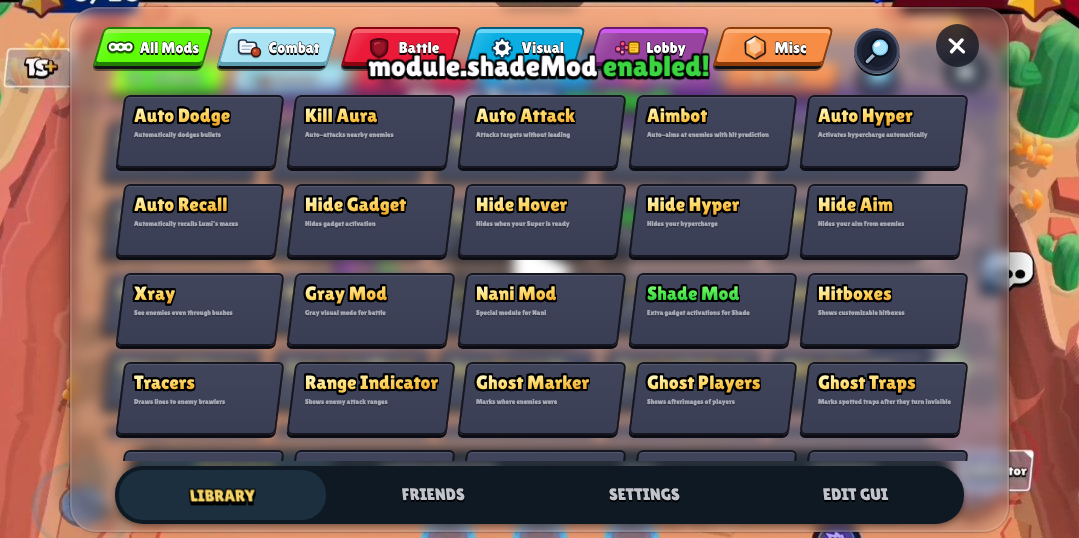
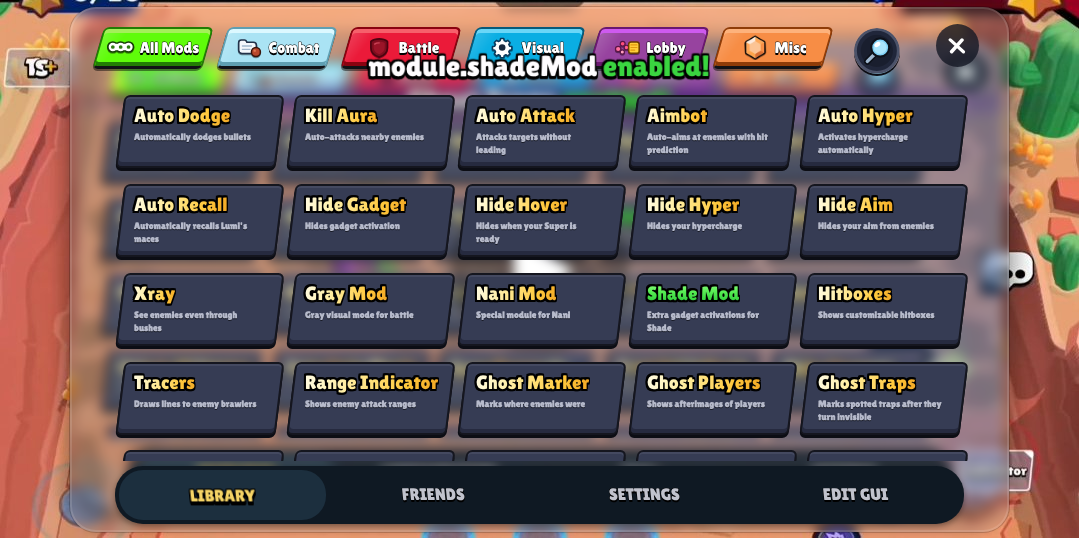
Match Tale card colors and add the game's button click sound
Navy card body with 3D bottom edge, left-to-right gold title gradient,
larger descriptions, and ButtonClick2 (menu_click_08.ogg) on menu buttons.

Claude-Session: https://claude.ai/code/session_01JmN1VkfGL2te8USe1pmgwt

diff --git a/tools/tale_menu/tale_patch.py b/tools/tale_menu/tale_patch.py
@@ -34,12 +34,12 @@ TALE_CSS = r"""
 :host .panel:has(.panel-tiles){background:none!important;border:0!important;box-shadow:none!important}
 :host .panel:has(.panel-tiles)>.panel-head{display:none!important}
 :host .panel-tiles{grid-template-columns:repeat(5,minmax(0,1fr))!important;gap:max(8px,1.8vh) max(8px,1.4vw)!important;padding:2px 6px!important}
-:host .tile,:host .tile.is-on{min-height:max(64px,13.5vh)!important;border:2px solid #15161f!important;border-radius:6px!important;background:linear-gradient(180deg,#41455c,#3a3e55)!important;box-shadow:0 3px 0 #0c0d14,inset 0 1px rgb(255 255 255 / .1)!important;transform:skew(-7deg)!important}
+:host .tile,:host .tile.is-on{min-height:max(64px,13.5vh)!important;border:2px solid #15161f!important;border-radius:6px!important;background:#363c54!important;box-shadow:0 3px 0 #0c0d14,inset 0 -4px #262a3f,inset 0 2px rgb(255 255 255 / .07)!important;transform:skew(-7deg)!important}
 :host .tile:before{display:none!important}
-:host .tile.is-on{box-shadow:0 3px 0 #0c0d14,inset 0 1px rgb(255 255 255 / .1)!important}:host .tile.is-on .tile-name{background:linear-gradient(180deg,#8dff7e 0,#55ec52 40%,#36d23f 75%,#27b532 100%)!important;-webkit-background-clip:text!important;background-clip:text!important}:host .jz-floater{position:absolute;left:50%;top:7.6vh;z-index:80;pointer-events:none;white-space:nowrap;font:400 max(20px,5.4vh)/1.1 var(--font-brand);color:#fefcfe;filter:drop-shadow(1.5px 0 0 #000) drop-shadow(-1.5px 0 0 #000) drop-shadow(0 -1.5px 0 #000) drop-shadow(0 3px 0 #000);animation:jzf 1.7s ease-out forwards!important}:host .jz-floater b{font-weight:400;color:#3ad540}:host .jz-floater b.off{color:#ff3b3b}@keyframes jzf{0%{opacity:0;transform:translate(-50%,8px) scale(.55)}10%{opacity:1;transform:translate(-50%,0) scale(1.1)}18%{transform:translate(-50%,0) scale(1)}78%{opacity:1;transform:translate(-50%,0)}100%{opacity:0;transform:translate(-50%,-10px)}}
+:host .tile.is-on{box-shadow:0 3px 0 #0c0d14,inset 0 -4px #262a3f,inset 0 2px rgb(255 255 255 / .07)!important}:host .tile.is-on .tile-name{background:linear-gradient(180deg,#8dff7e 0,#55ec52 40%,#36d23f 75%,#27b532 100%)!important;-webkit-background-clip:text!important;background-clip:text!important}:host .jz-floater{position:absolute;left:50%;top:7.6vh;z-index:80;pointer-events:none;white-space:nowrap;font:400 max(20px,5.4vh)/1.1 var(--font-brand);color:#fefcfe;filter:drop-shadow(1.5px 0 0 #000) drop-shadow(-1.5px 0 0 #000) drop-shadow(0 -1.5px 0 #000) drop-shadow(0 3px 0 #000);animation:jzf 1.7s ease-out forwards!important}:host .jz-floater b{font-weight:400;color:#3ad540}:host .jz-floater b.off{color:#ff3b3b}@keyframes jzf{0%{opacity:0;transform:translate(-50%,8px) scale(.55)}10%{opacity:1;transform:translate(-50%,0) scale(1.1)}18%{transform:translate(-50%,0) scale(1)}78%{opacity:1;transform:translate(-50%,0)}100%{opacity:0;transform:translate(-50%,-10px)}}
 :host .tile-toggle{gap:3px!important;padding:8px 10px 8px 12px!important;justify-content:flex-start!important;transform:skew(7deg)}
-:host .tile-name{font:400 max(14px,3.6vh)/1.1 var(--font-brand)!important;color:transparent!important;background:linear-gradient(172deg,#fffbe0 0,#fff0a8 22%,#ffd968 48%,#f6b93a 72%,#e0901f 100%);-webkit-background-clip:text;background-clip:text;-webkit-text-stroke:0!important;text-shadow:none!important;filter:drop-shadow(1.2px 0 0 #000) drop-shadow(-1.2px 0 0 #000) drop-shadow(0 -1.2px 0 #000) drop-shadow(0 2.4px 0 #000);white-space:nowrap;overflow:hidden;max-width:100%;padding-bottom:2px}
-:host .tile-desc{color:#a3a6b3;font:600 max(7px,1.3vh)/1.3 var(--font);text-shadow:0 1px 0 #0008;overflow:hidden;display:-webkit-box;-webkit-line-clamp:3;-webkit-box-orient:vertical;max-width:100%}
+:host .tile-name{font:400 max(14px,3.6vh)/1.1 var(--font-brand)!important;color:transparent!important;background:linear-gradient(100deg,#fffbe2 0,#fff1b0 25%,#ffe07a 50%,#ffc83c 75%,#f2a724 100%);-webkit-background-clip:text;background-clip:text;-webkit-text-stroke:0!important;text-shadow:none!important;filter:drop-shadow(1.2px 0 0 #000) drop-shadow(-1.2px 0 0 #000) drop-shadow(0 -1.2px 0 #000) drop-shadow(0 2.4px 0 #000);white-space:nowrap;overflow:hidden;max-width:100%;padding-bottom:2px}
+:host .tile-desc{color:#b6bacb;font:700 max(8px,1.75vh)/1.3 var(--font);text-shadow:0 1px 0 #0008;overflow:hidden;display:-webkit-box;-webkit-line-clamp:2;-webkit-box-orient:vertical;max-width:92%}
 :host .tile-pill,:host .tile-glyph{display:none!important}
 :host .tile-side{position:absolute!important;right:2px;bottom:2px;width:26px;height:26px;flex:none!important;border:0!important;opacity:.45}:host .tile-side-btn+.tile-side-btn{display:none}
 :host .window>.topbar{order:9!important;position:static!important;justify-content:space-between!important;margin:1vh 4vw 1vh!important;padding:4px!important;border:0!important;border-radius:28px!important;background:#0f1923!important;box-shadow:0 2px 6px #0006!important;gap:4px!important}
@@ -143,7 +143,7 @@ js = js[:s0] + ('switch(`${o}.${t}`){case"allmods.all":return Kr();case"combat.a
 rep1('`${t}.${e}`=="maintenance.general"', '`${t}.${e}`=="lobby.general"')
 rep1('I.initialModuleId:"battle",', 'I.initialModuleId:"allmods",')
 rep1('P(r,()=>this.setBound(t,"enabled",!this.app.state.isEnabled(t)))', 'P(r,()=>{let q=!this.app.state.isEnabled(t);this.setBound(t,"enabled",q);jzF(a,i,q)})')
-rep1('"use strict";(()=>{', '"use strict";(()=>{function jzF(a,i,q){let w=a.closest(".window");if(!w)return;w.querySelector(".jz-floater")?.remove();let f=n("div",{class:"jz-floater"},i+" ",n("b",{class:q?"":"off"},q?"enabled!":"disabled!"));w.append(f);setTimeout(()=>f.remove(),1750)}')
[1 lines of base64/hex data omitted]
 jb = js.encode()
 print('js free bytes', bn - len(jb))
 jb += b' ' * (bn - len(jb))
